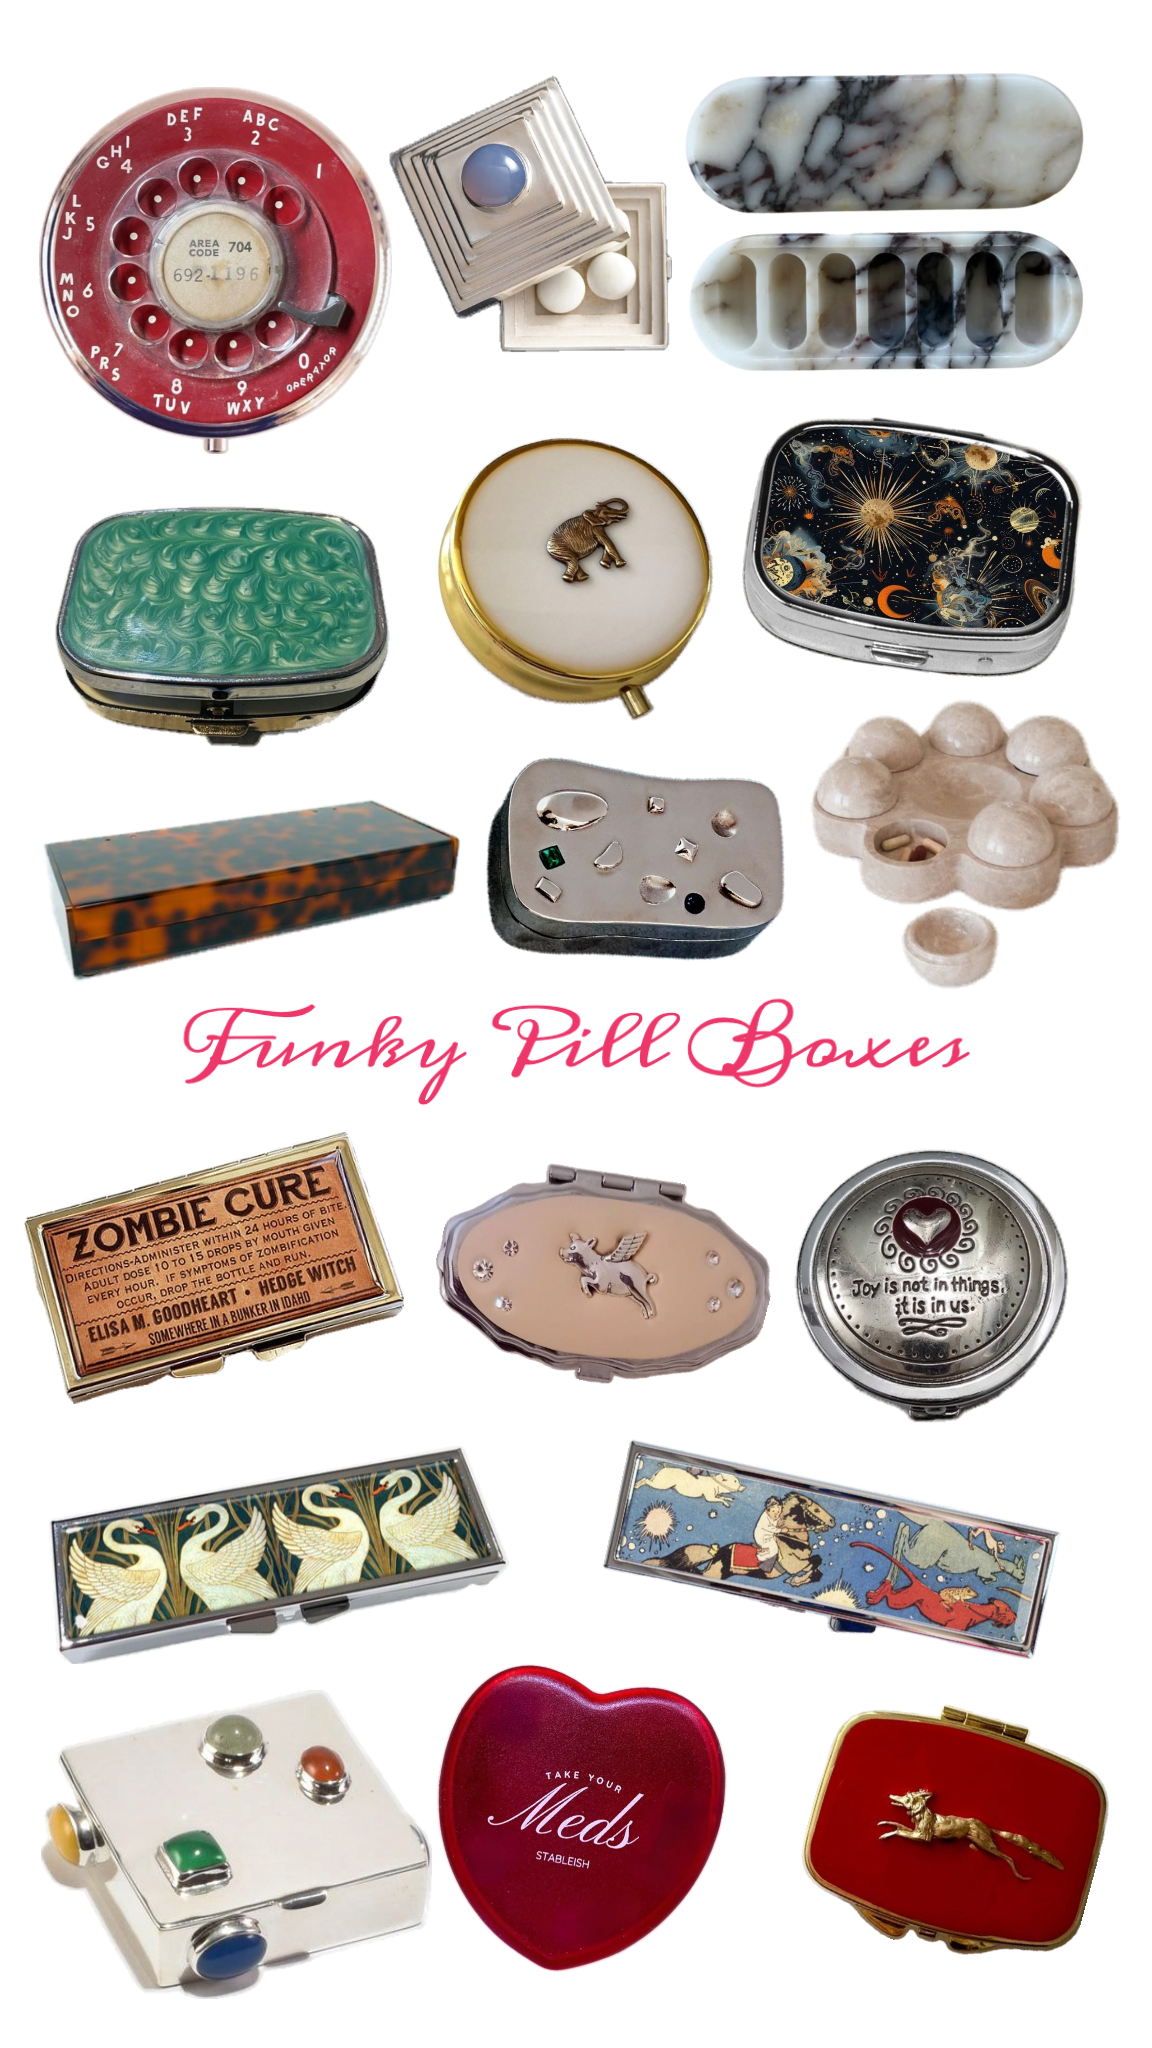
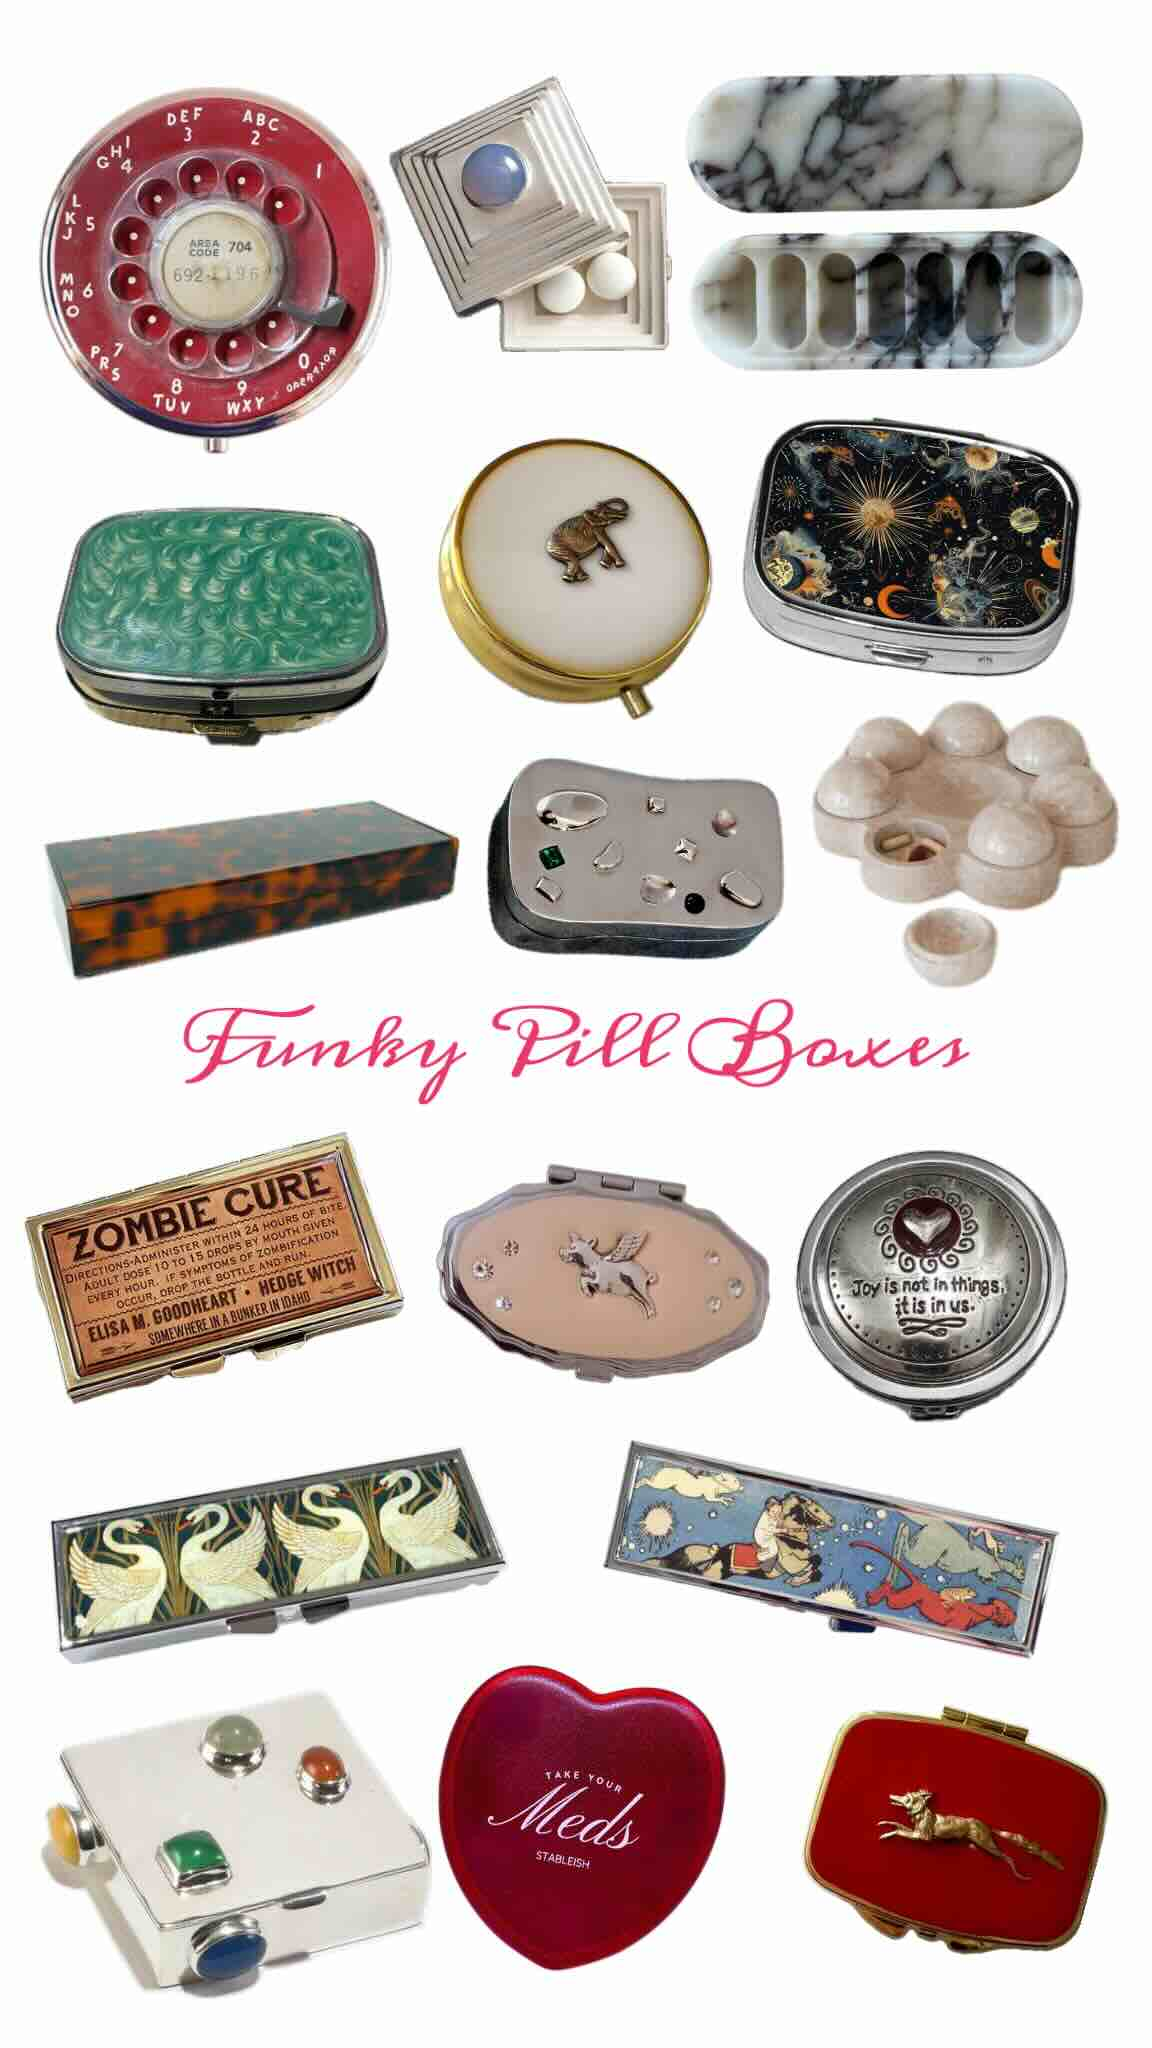
Quartz sync: Aug 15, 2026, 11:37 PM

diff --git a/content/Projects/Projects I'm Proud Of.md b/content/Projects/Projects I'm Proud Of.md
@@ -4,6 +4,8 @@ draft: false
 ---
 
 Alba, M (c. 2025). 2025 Marika's Card Case, Bronze. Portland, Oregon 
-
 #metalsmithing 
-![[Margaret_Alba_Bronze_Card_Case_2.gif|184]]![[Margaret_Alba_Bronze_Card_Case_7.jpg|273]]![[Margaret_Alba_Bronze_Card_Case_12.jpg|308]]![[Margaret_Alba_Bronze_Card_Case_6.jpg|548]]
+
+![[Margaret_Alba_Bronze_Card_Case_7.jpg]]
+
+![[Margaret_Alba_Bronze_Card_Case_6.jpg|548]]

diff --git a/content/How to/How to Fabricate a Silver box.md b/content/How to/How to Fabricate a Silver box.md
@@ -1,5 +1,5 @@
 ---
-title: How to make a silver box for jewellery
+title: How to Make a Silver Box
 draft: false
 ---
 #capsule #metalsmithing
